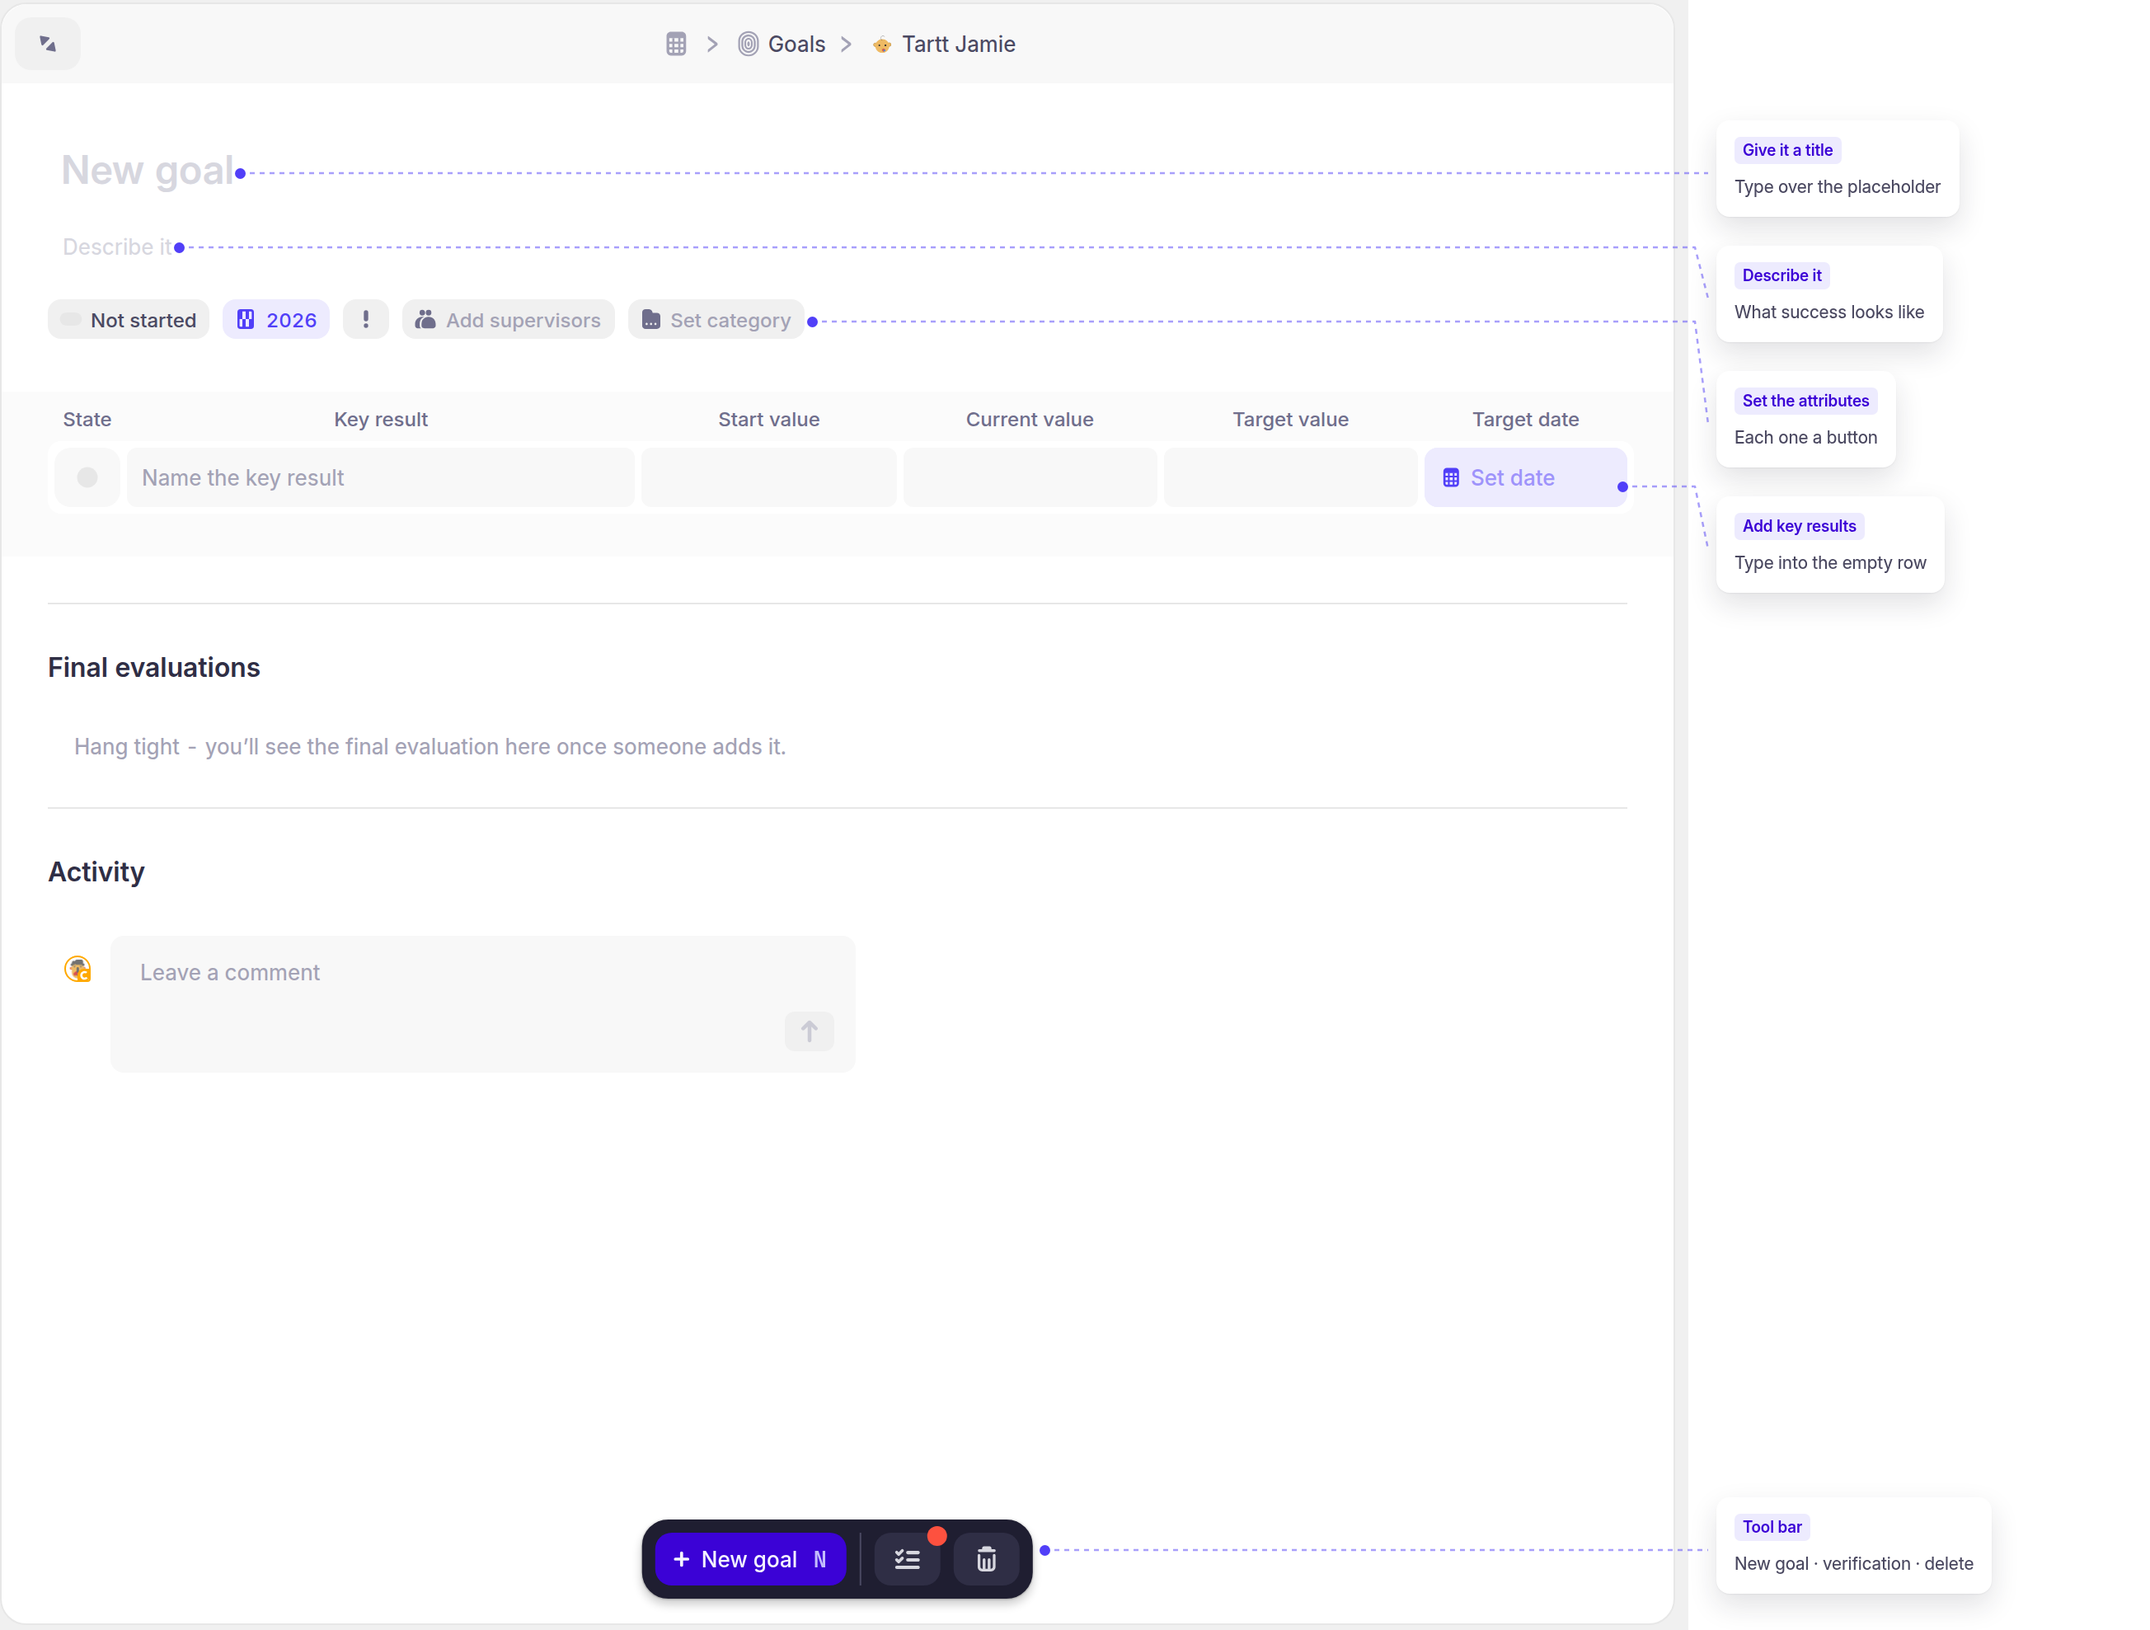
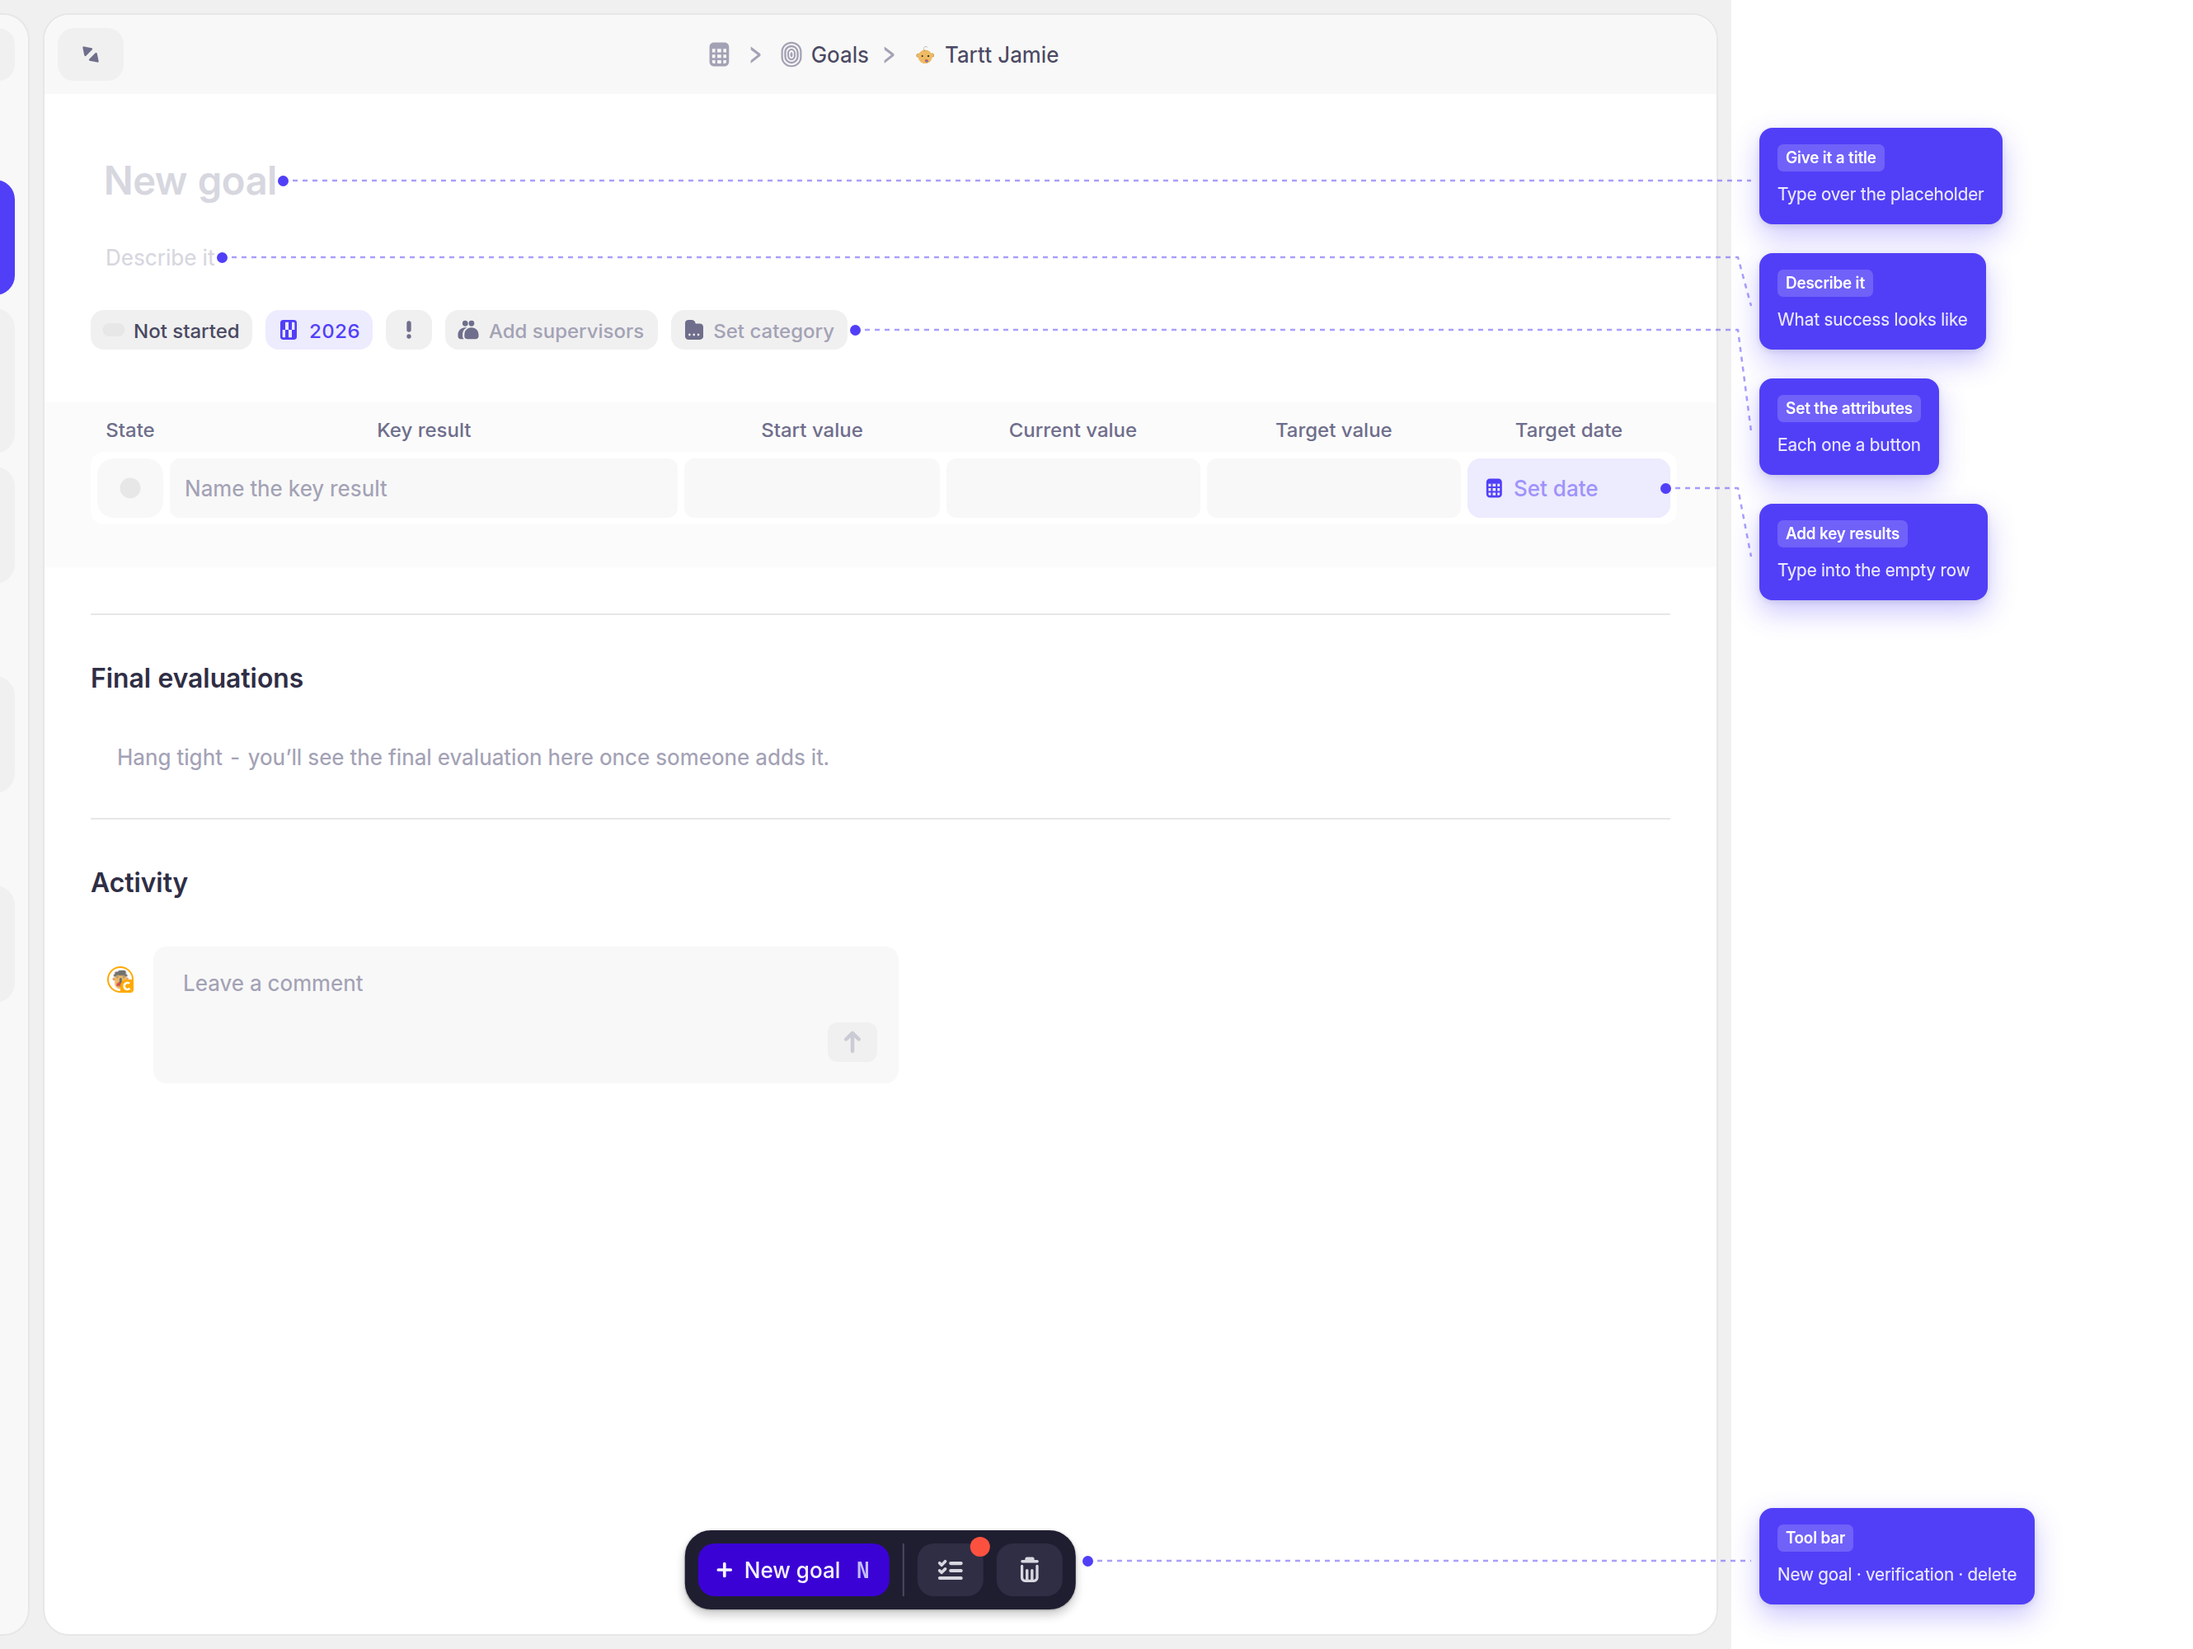
Goals: anchored zooms, indigo callouts, fewer figures, crisper zoom
Zoom (site-wide)
- Click-to-zoom was blurry in Safari for two reasons, both fixed. The
  scale cap counted CSS pixels, so on a 2x display a 3200px image could be
  stretched to 3200 CSS px — four device pixels per image pixel. The cap
  now counts device pixels. And `will-change: transform` was left on at
  rest: WebKit rasterises a promoted layer once at its pre-transform size
  and stretches that texture, so the hint is now dropped when the motion
  finishes and the image re-rasterises at the size actually on screen.

Figures
- Every zoom is anchored to one of nine positions on the window (top-left
  … bottom-right) instead of being cut from the middle, so each figure
  keeps the window's own edges and shows where in the app you are. The
  category menu is anchored left, Verification bottom-right, Export
  top-left. This also removes the sliced-rounded-corner grey slivers.
- Callout cards go back to Yarmill indigo with light text.
- Group overview and Export options lose their callouts — the colours and
  the menu items already speak for themselves.
- Dropped the goals-list figure, and the goal-anatomy figure that
  duplicated the new-goal one in the same section.

Page
- Removed the lead sentence above the meta labels; the description
  already carries it, so the page now runs title → description → labels →
  hero.

Conventions for the anchor grid, the indigo cards and "not every figure
needs callouts" are in demo-cast.md.
[…]

diff --git a/site/components/mdx/ZoomImage.tsx b/site/components/mdx/ZoomImage.tsx
@@ -84,10 +84,15 @@ export function ZoomImage({ src, alt }: { src: string; alt: string }) {
     const r = img.getBoundingClientRect();
     const vw = window.innerWidth;
     const vh = window.innerHeight;
+    // Never enlarge past the file's own resolution. The cap has to count DEVICE
+    // pixels, not CSS pixels: on a 2x screen, showing a 3200px-wide image at
+    // 3200 CSS px means each image pixel is stretched over four device pixels,
+    // which is the blur. naturalWidth / (cssWidth * dpr) is the honest ceiling.
+    const dpr = window.devicePixelRatio || 1;
     const scale = Math.min(
       (vw - MARGIN * 2) / r.width,
       (vh - MARGIN * 2) / r.height,
-      (img.naturalWidth || r.width) / r.width,
+      (img.naturalWidth || r.width * dpr) / (r.width * dpr),
     );
     const tx = vw / 2 - (r.left + r.width / 2);
     const ty = vh / 2 - (r.top + r.height / 2);
@@ -100,15 +105,24 @@ export function ZoomImage({ src, alt }: { src: string; alt: string }) {
     img.style.zIndex = '210'; // above the overlay (z-index 200)
     img.style.cursor = 'zoom-out';
     img.style.transformOrigin = 'center center';
-    img.style.willChange = 'transform';
     img.style.transform = target;
     overlay.style.opacity = '1';
 
     if (!prefersReduced() && !document.hidden) {
-      img.animate([{ transform: 'none' }, { transform: target }], {
+      // `will-change` only for the duration of the motion. WebKit rasterises a
+      // promoted layer once, at its pre-transform size, then stretches that
+      // texture — so leaving the hint on keeps the zoomed image blurry in Safari
+      // even after it settles. Dropping it on finish makes WebKit re-rasterise
+      // at the size actually on screen.
+      img.style.willChange = 'transform';
+      const anim = img.animate([{ transform: 'none' }, { transform: target }], {
         duration: DUR,
         easing: EASE,
       });
+      const settle = () => {
+        img.style.willChange = 'auto';
+      };
+      anim.finished.then(settle, settle);
       overlay.animate([{ opacity: 0 }, { opacity: 1 }], {
         duration: DUR,
         easing: EASE,
@@ -156,6 +170,7 @@ export function ZoomImage({ src, alt }: { src: string; alt: string }) {
       setOpen(false);
     };
 
+    img.style.willChange = 'transform';
     const a = img.animate([{ transform: target }, { transform: 'none' }], {
       duration: DUR,
       easing: EASE,

diff --git a/docs-guide/visuals/demo-cast.md b/docs-guide/visuals/demo-cast.md
@@ -61,7 +61,21 @@ region** the figure is about — and it bleeds to all four edges of the image. D
 region out of the window and float it as a rounded card with a drop shadow on a backdrop: it
 reads as a drawing of the UI rather than a picture of it.
 
-**Callouts sit off the app, in a transparent strip at the edge** of the figure — to the right
+**A zoom is anchored to the window, never floating in the middle of it.** Pick one of nine
+positions — top-left · top · top-right · left · center · right · bottom-left · bottom ·
+bottom-right — and crop from that anchor, so the figure keeps the window's own edges (and the
+page background and rounded corners along them) on the sides it touches. A crop taken from the
+middle of the screen, cut on all four sides, leaves the reader with no idea where they are; it
+also produces ugly slivers of grey where a panel's rounded corner is sliced. Choose the anchor
+that best shows *where the thing lives*: the category menu sits left, the Verification popover
+bottom-right, the export menu top-left.
+
+**Not every figure needs callouts.** If the screen explains itself — a group overview whose
+colours are the point, a menu whose items are readable — leave it clean and let the caption
+carry it. Callouts are for naming parts that aren't self-evident.
+
+**Callout cards are Yarmill indigo with light text** (chip in a white tint, body at ~88%
+white), and they **sit off the app, in a transparent strip at the edge** of the figure — to the right
 of a tall screen, underneath a wide one. The strip has no background, so it merges into the
 docs frame instead of reading as a second panel, and the app itself stays unobscured. Anchor
 the dot just *outside* the element it names (past the end of a line of text, at the right edge
